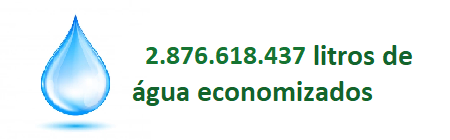
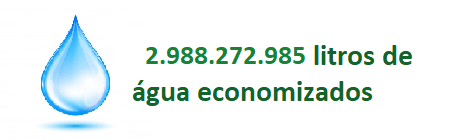
Atualização Nov/22

Changed region(s): [[0.3422, 0.3143, 0.6844, 0.4571]]

diff --git a/frontend/src/components/DataTable/index.tsx b/frontend/src/components/DataTable/index.tsx
@@ -9,13 +9,13 @@ const DataTable = () => {
                         <th>OT's</th>
                         <th>OS's</th>
                         <th>OD's</th>
-                        <th>Estoque em 31/10/22 (Kg)</th>
+                        <th>Estoque em 30/11/22 (Kg)</th>
                         <th>Peso Reciclado (Kg)</th>
                         
                     </tr>
                     <tr>
                         <td>BDPWaste</td>
-                        <td>1</td>
+                        <td>2</td>
                         <td>11</td>
                         <td>0</td>
                         <td>331,974</td>
@@ -23,11 +23,11 @@ const DataTable = () => {
                     </tr>
                     <tr>
                         <td>Codel</td>
-                        <td>160</td>
-                        <td>292</td>
-                        <td>626</td>
-                        <td>26.777,729</td>
-                        <td>71.054,661</td>
+                        <td>168</td>
+                        <td>304</td>
+                        <td>652</td>
+                        <td>17.453,219</td>
+                        <td>73.869,457</td>
                     </tr>
                     <tr>
                         <td>Ecobras</td>
@@ -63,19 +63,19 @@ const DataTable = () => {
                     </tr>
                     <tr>
                         <td>Natal</td>
-                        <td>477</td>
-                        <td>2.682</td>
-                        <td>428</td>
-                        <td>98.339,328</td>
-                        <td>1.275.585,302</td>
+                        <td>505</td>
+                        <td>2.811</td>
+                        <td>451</td>
+                        <td>86.612,947</td>
+                        <td>1.333.139,103</td>
                     </tr>
                     <tr>
                         <td>Reciclo</td>
-                        <td>920</td>
-                        <td>1.881</td>
-                        <td>1.361</td>
-                        <td>107.020,431</td>
-                        <td>1.828.138,713</td>
+                        <td>998</td>
+                        <td>1.970</td>
+                        <td>1.423</td>
+                        <td>88.014,061</td>
+                        <td>1.932.302,247</td>
                     </tr>
                     <tr>
                         <td>Reeecicle</td>
@@ -87,10 +87,10 @@ const DataTable = () => {
                     </tr>
                     <tr>
                         <td>Sete Ambiental</td>
-                        <td>993</td>
-                        <td>746</td>
+                        <td>1.020</td>
+                        <td>782</td>
                         <td>17</td>
-                        <td>50.761,382</td>
+                        <td>52.877,702</td>
                         <td>609,600</td>
                     </tr>
                     <tr>
@@ -104,9 +104,9 @@ const DataTable = () => {
                     <tr>
                         <td>Zero Impacto</td>
                         <td>85</td>
-                        <td>622</td>
+                        <td>674</td>
                         <td>79</td>
-                        <td>62.921,491</td>
+                        <td>73.749,892</td>
                         <td>72.004,772</td>
                     </tr>
                     <tr>
@@ -119,11 +119,11 @@ const DataTable = () => {
                     </tr>
                     <tr>
                         <th>T O T A I S</th>
-                        <th>2.759</th>
-                        <th>6.686</th>
-                        <th>2.707</th>
-                        <th>596.816,687</th>
-                        <th>3.328.841,649</th>
+                        <th>2.900</th>
+                        <th>7.004</th>
+                        <th>2.818</th>
+                        <th>569.704,147</th>
+                        <th>3.493.373,780</th>
                     </tr>
                 </thead>
                 <tbody>

diff --git a/frontend/src/components/BarRecbMensal/index.tsx b/frontend/src/components/BarRecbMensal/index.tsx
@@ -16,12 +16,12 @@ const BarRecbMensal = () => {
     
     const mockData = {
         labels: {
-            categories: ['Jan', 'Fev', 'Mar', 'Abr', 'Mai', 'Jun', 'Jul', 'Ago', 'Set', 'Out', 'Nov', 'Dez', 'Jan/22', 'Fev', 'Mar', 'Abr', 'Mai', 'Jun', "Jul", "Ago", "Set", "Out"]
+            categories: ['Jan', 'Fev', 'Mar', 'Abr', 'Mai', 'Jun', 'Jul', 'Ago', 'Set', 'Out', 'Nov', 'Dez', 'Jan/22', 'Fev', 'Mar', 'Abr', 'Mai', 'Jun', "Jul", "Ago", "Set", "Out", "Nov"]
         },
         series: [
             {
                 name: "Kg Recebidos",
-                data: [108468, 113628,	123526, 138370, 186067, 187866, 219556, 162479, 257534, 204908, 255846, 235632, 170503, 177506, 183005, 129727, 151077, 156492, 180337, 189042, 220864, 139238]                  
+                data: [108468, 113628,	123526, 138370, 186067, 187866, 219556, 162479, 257534, 204908, 255846, 235632, 170503, 177506, 183005, 129727, 151077, 156492, 180337, 189042, 220864, 139238, 151062]                  
             }
         ]
     };

diff --git a/frontend/src/components/BarReciclMensal/index.tsx b/frontend/src/components/BarReciclMensal/index.tsx
@@ -16,12 +16,12 @@ const BarReciclMensal = () => {
     
     const mockData = {
         labels: {
-            categories: ['Jan', 'Fev', 'Mar', 'Abr', 'Mai', 'Jun', 'Jul', 'Ago', 'Set', 'Out', 'Nov', 'Dez', 'Jan/22', 'Fev', 'Mar', 'Abr', 'Mai', 'Jun', 'Jul', "Ago", "Set", "Out"]
+            categories: ['Jan', 'Fev', 'Mar', 'Abr', 'Mai', 'Jun', 'Jul', 'Ago', 'Set', 'Out', 'Nov', 'Dez', 'Jan/22', 'Fev', 'Mar', 'Abr', 'Mai', 'Jun', 'Jul', "Ago", "Set", "Out", "Nov"]
         },
         series: [
             {
                 name: "Kg Reciclados",
-                data: [26339, 90712, 93643, 142116, 166545, 219788, 189244, 197028, 209382, 176002, 176982, 162728, 128780, 136990, 181336, 84713, 112874, 154528, 138325, 172608, 207822, 160358]                  
+                data: [26339, 90712, 93643, 142116, 166545, 219788, 189244, 197028, 209382, 176002, 176982, 162728, 128780, 136990, 181336, 84713, 112874, 154528, 138325, 172608, 207822, 160358, 164532]                  
             }
         ]
     };

diff --git a/frontend/src/components/BarChart/index.tsx b/frontend/src/components/BarChart/index.tsx
@@ -17,7 +17,7 @@ const BarChart = () => {
         series: [
             {
                 name: "Ton Reciclados",
-                data: [0, 71.055, 46.304, 0, 9.459, 25.501, 1275.585, 1828.139, 0.184, 0.610, 0, 72.005]                  
+                data: [0, 73.869, 46.304, 0, 9.459, 25.501, 1333.139, 1932.302, 0.184, 0.610, 0, 72.005]                  
             }
         ]
     };

diff --git a/frontend/src/components/BarOSs/index.tsx b/frontend/src/components/BarOSs/index.tsx
@@ -22,7 +22,7 @@ const BarOSs = () => {
         series: [
             {
                 name: "OS's Abertas",
-                data: [11, 292, 17, 6, 64, 158, 2682, 1881, 206, 746, 12, 622]                  
+                data: [11, 304, 17, 6, 64, 158, 2811, 1970, 206, 782, 12, 674]                  
             }
         ]
     };

diff --git a/frontend/src/components/BarOTs/index.tsx b/frontend/src/components/BarOTs/index.tsx
@@ -22,7 +22,7 @@ const BarOTs = () => {
         series: [
             {
                 name: "OT's Abertas",
-                data: [1, 160, 0, 37, 24, 14, 477, 920, 49, 993, 0, 85]                  
+                data: [2, 168, 0, 37, 24, 14, 505, 998, 49, 1020, 0, 85]                  
             }
         ]
     };

diff --git a/frontend/src/components/BarODs/index.tsx b/frontend/src/components/BarODs/index.tsx
@@ -22,7 +22,7 @@ const BarODs = () => {
         series: [
             {
                 name: "OD's Abertas",
-                data: [0, 626, 23, 0, 49, 52, 428, 1361, 1, 17, 71, 79]                  
+                data: [0, 652, 23, 0, 49, 52, 451, 1423, 1, 17, 71, 79]                  
             }
         ]
     };
